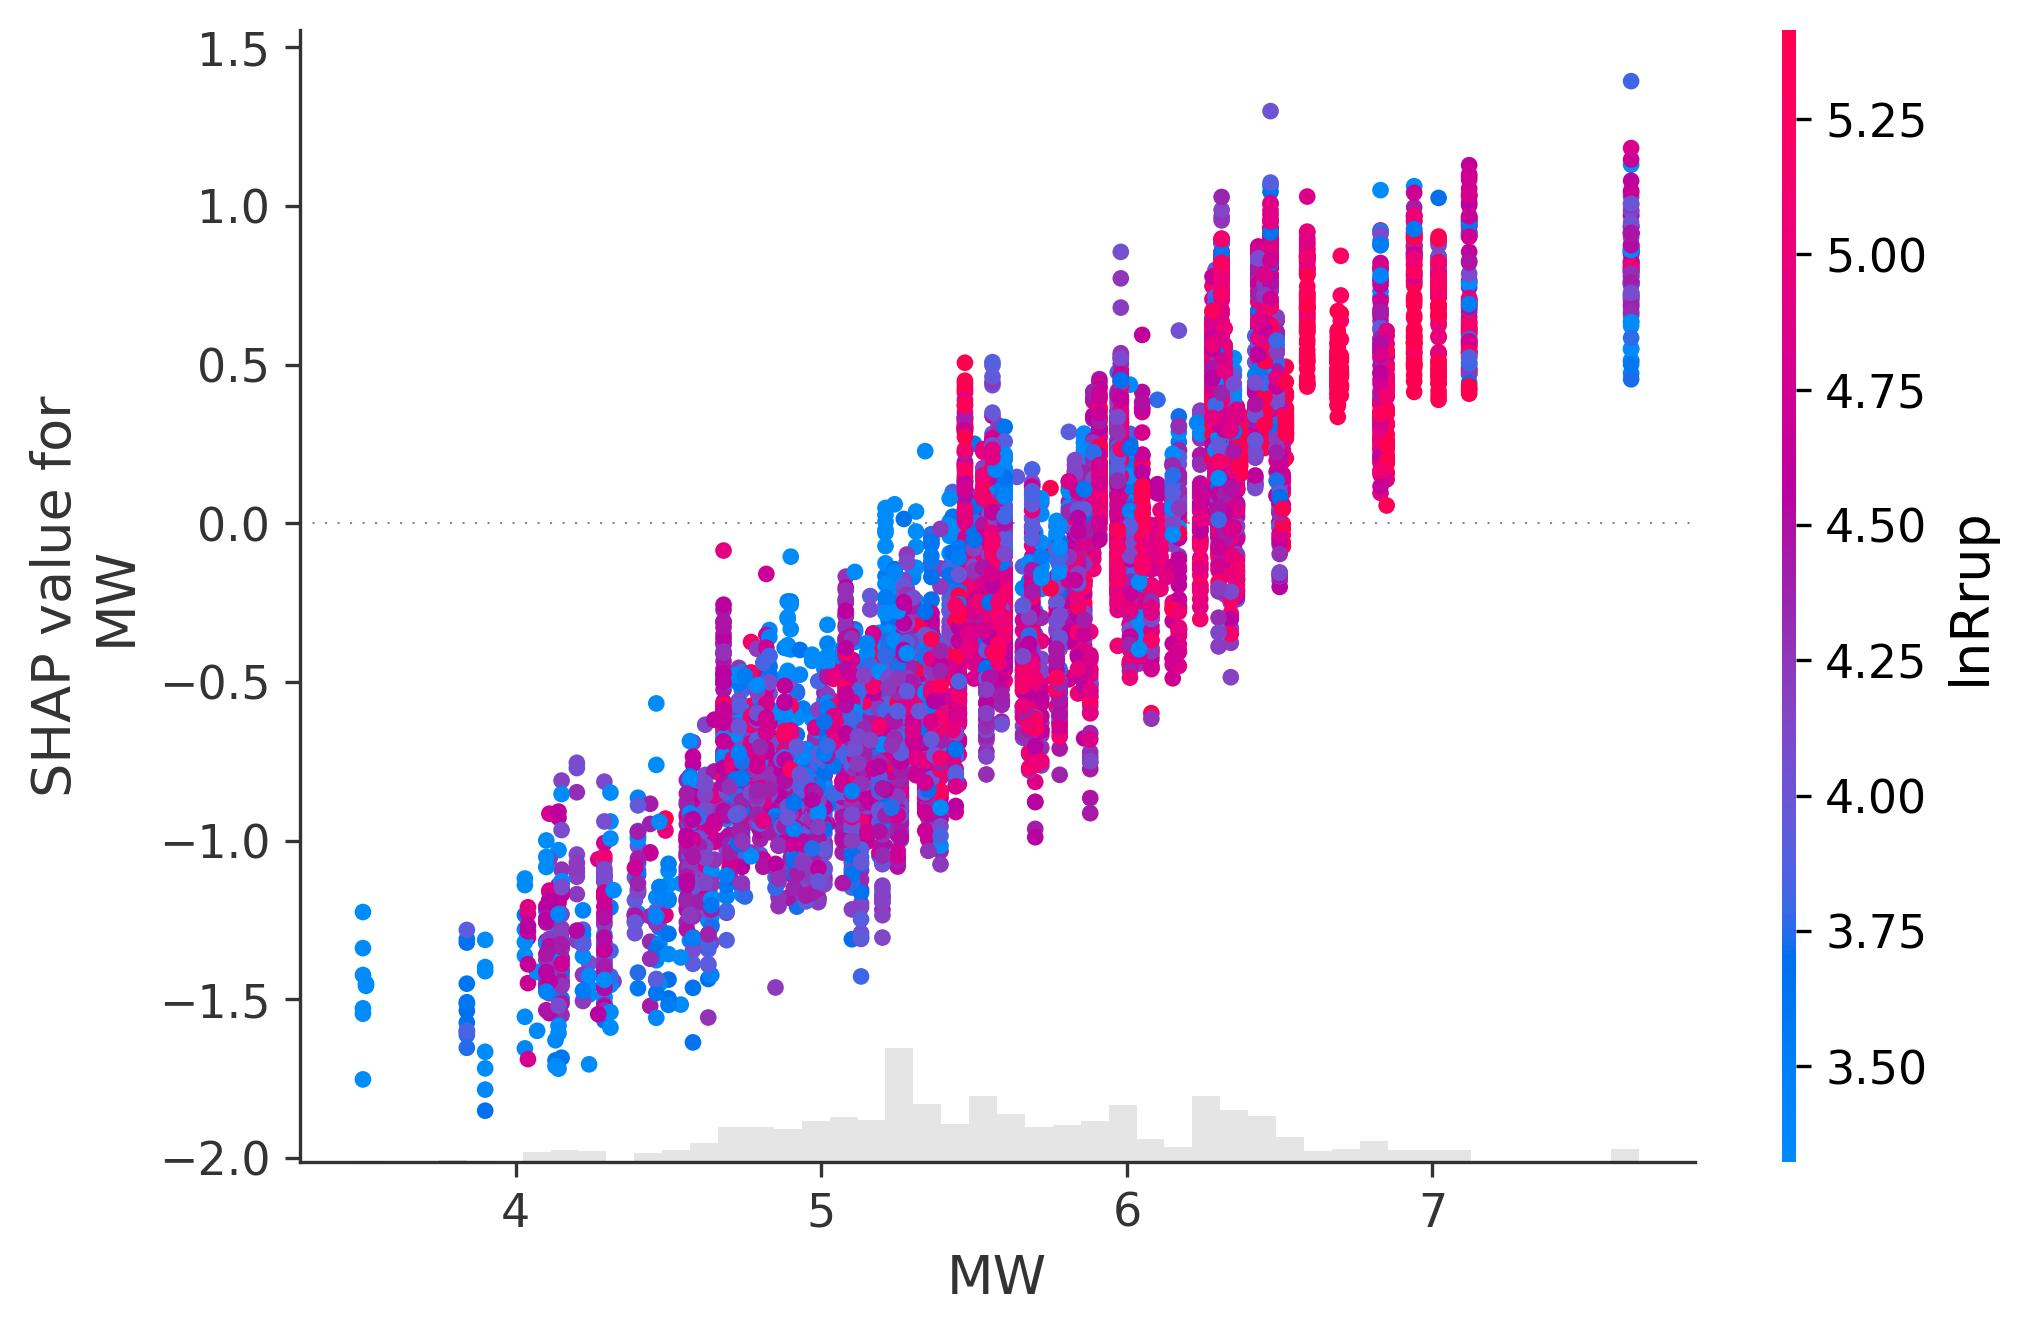
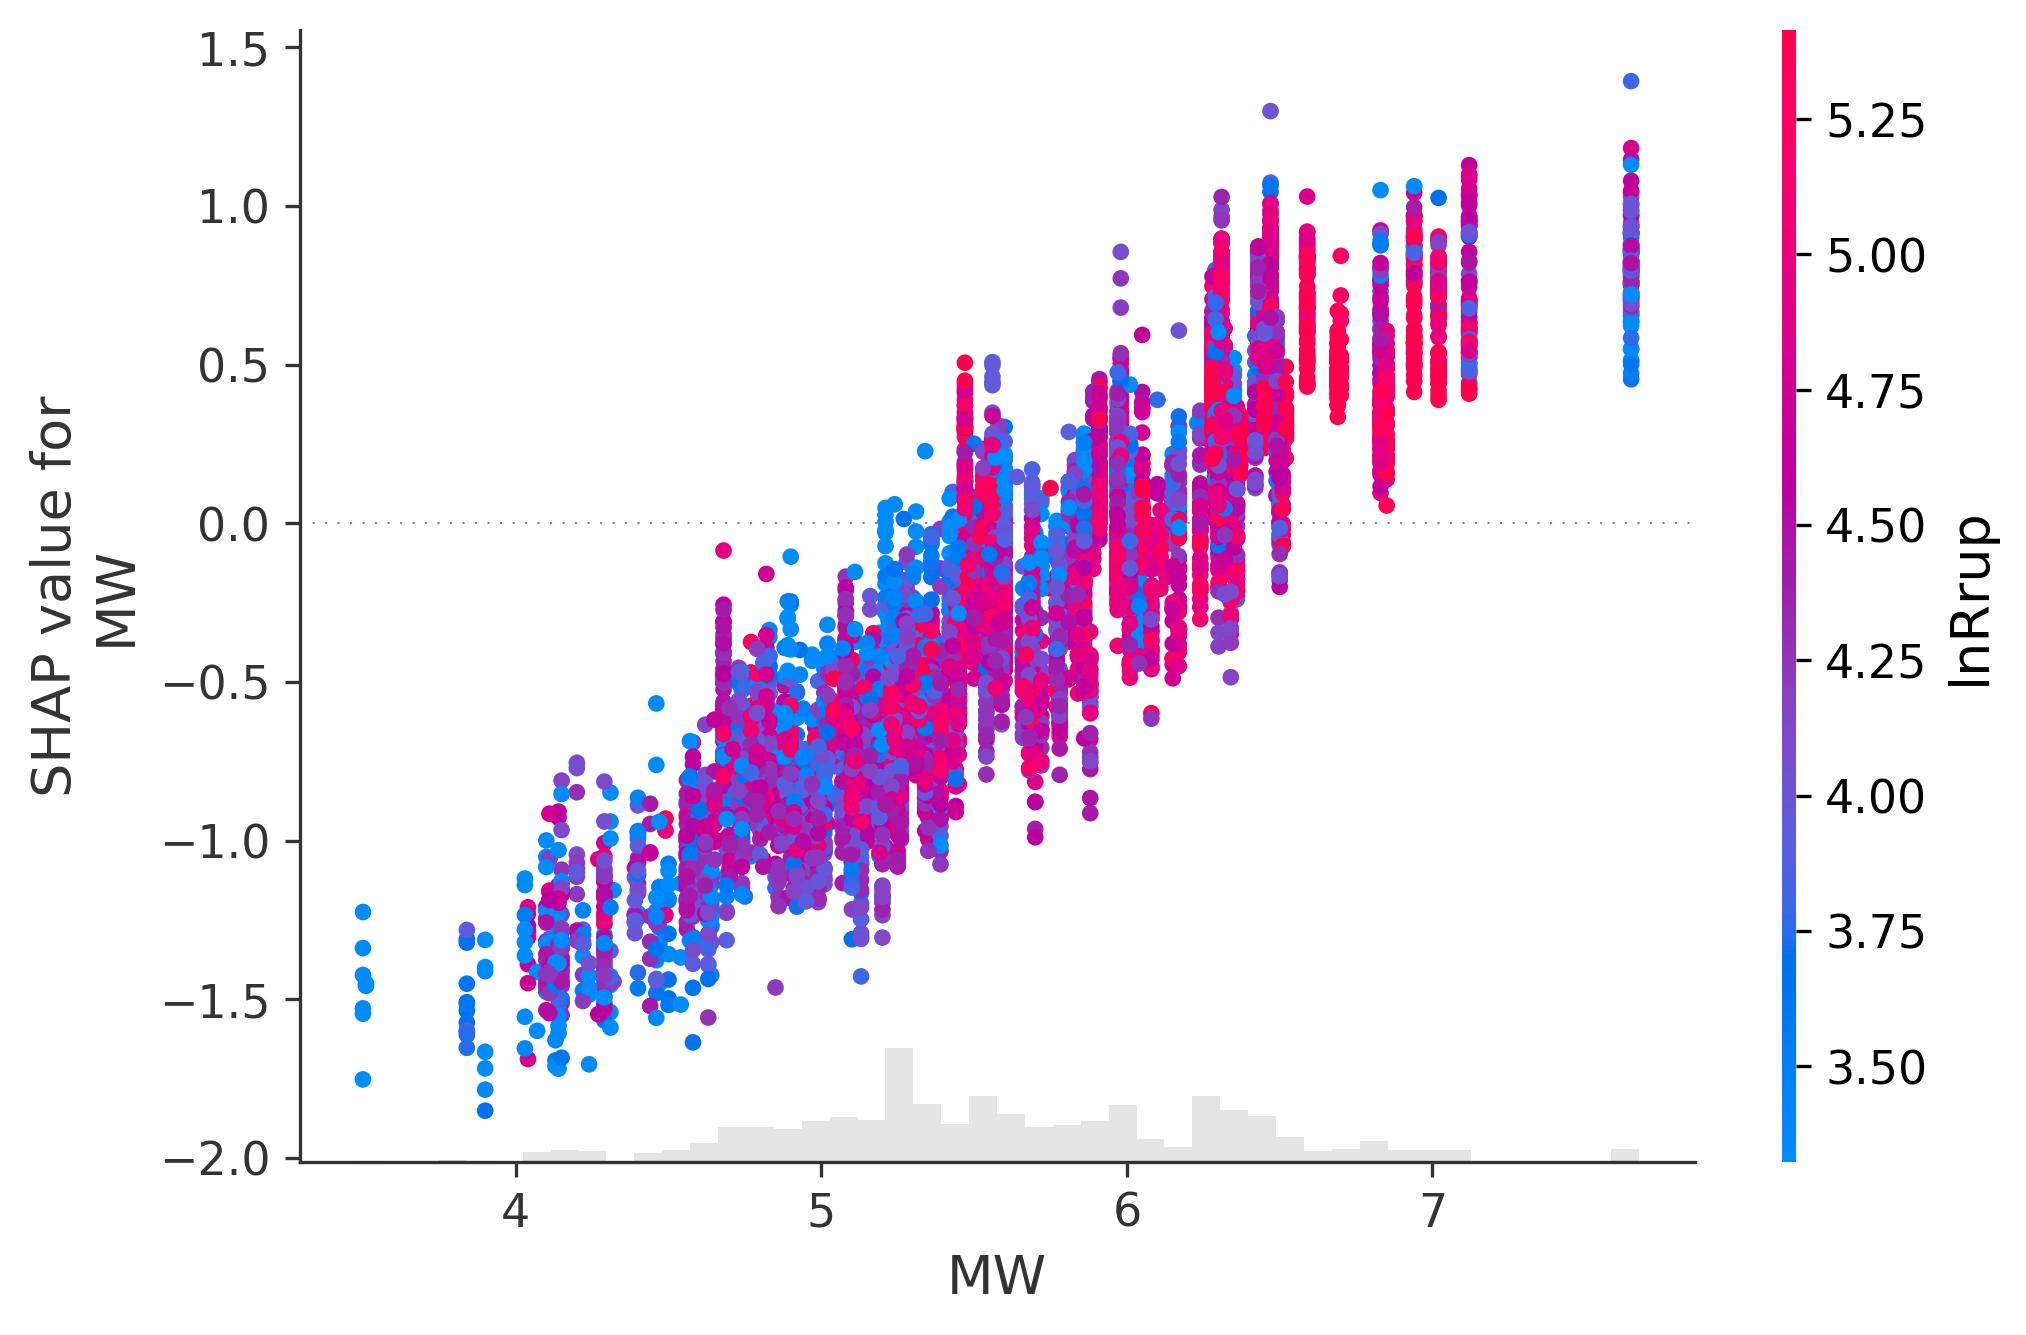
finish SHAP

Changed region(s): [[0.2488, 0.1843, 0.6841, 0.7678], [0.6841, 0.1536, 0.7463, 0.2764], [0.7774, 0.1536, 0.8085, 0.2457]]

diff --git a/machine_learning/design_pattern/plot_figure.py b/machine_learning/design_pattern/plot_figure.py
@@ -26,13 +26,11 @@ class plot_fig:
     def predicted_distribution(self, x_test, y_test, predict_value, fit_time,
                                score):
 
-        #######################################
-        #######################################
-        #######################################
-        ###### train & test distribution ######
-        #######################################
-        #######################################
-        #######################################
+        """ 
+        
+        train & test distribution
+        
+        """
 
         # 畫 Vs30 and randomForest_predict 關係圖
         plt.grid(linestyle=':')
@@ -95,11 +93,13 @@ class plot_fig:
                  predict_value: "ori_predicted",
                  ori_full_data: "ori_notsplit_data", score):
 
-        ##########################
-        ##### Total Residual #####
-        ##########################
+        """
+        
+        Total Residual 
+        
+        """
 
-        # 1. Vs30 Total Residual
+        # * 1. Vs30 Total Residual
         residual = predict_value - y_total
         residual_121 = []
         residual_199 = []
@@ -221,7 +221,7 @@ class plot_fig:
             dpi=300)
         plt.show()
 
-        # 2. Mw Toral Residual
+        # * 2. Mw Toral Residual
         residual = predict_value - y_total
         residual_3_5 = []
         residual_4_5 = []
@@ -329,7 +329,7 @@ class plot_fig:
             dpi=300)
         plt.show()
 
-        # 3. Rrup Total Residual
+        # *  3. Rrup Total Residual
         residual = predict_value - y_total
         residual_10 = []
         residual_31 = []
@@ -440,7 +440,7 @@ class plot_fig:
             dpi=300)
         plt.show()
 
-        # 4. Total Residual Number Distribution
+        # * 4. Total Residual Number Distribution
         total_num_residual = [0] * 41
         total_num_residual[10] = np.count_nonzero((residual >= -2)
                                                   & (residual < -1.8))
@@ -501,13 +501,11 @@ class plot_fig:
             dpi=300)
         plt.show()
 
-        #######################################
-        #######################################
-        #######################################
-        ##### inter intra event residual  #####
-        #######################################
-        #######################################
-        #######################################
+        """
+
+        inter intra event residual
+        
+        """
 
         # 計算inter-event by mean value(共273顆地震)
         originaldata_predicted_result_df = pd.DataFrame(predict_value,
@@ -528,7 +526,7 @@ class plot_fig:
             'MW': 'Mw'
         })
 
-        # Mw inter-event
+        # * Mw inter-event
         Mw_yticks = [-1.5, -1.0, -0.5, 0, 0.5, 1.0, 1.5]
         plt.grid(linestyle=':', color='darkgrey')
         plt.scatter(inter_event['Mw'],
@@ -565,7 +563,7 @@ class plot_fig:
         total_data_df['intra_event_residual'] = total_data_df[
             'residual'] - total_data_df['inter_event_residual']
 
-        # Rrup intra-event
+        # * Rrup intra-event
         Rrup_xticks = [0, 50, 100, 150, 200, 250, 300, 400, 500]
         net = 50
         zz = np.array([0] * net * net).reshape(net, net)  # 打net*net個網格
@@ -682,9 +680,11 @@ class plot_fig:
     def measured_predict(self, y_test: "ori_ans",
                          predict_value: "ori_predicted", score):
 
-        #./
-        # 預測PGA和實際PGA
-        # /.
+        """
+        
+        預測PGA和實際PGA
+        
+        """
         net = 50
         zz = np.array([0] * net * net).reshape(net, net)  # 打net*net個網格
         color_column = []

diff --git a/machine_learning/XGB/XGB_TSMIP.py b/machine_learning/XGB/XGB_TSMIP.py
@@ -60,24 +60,30 @@ df = pd.DataFrame(
     columns=['lnVs30', 'MW', 'lnRrup', 'fault.type', 'STA_Lon_X', 'STA_Lat_Y'])
 explainer = shap.Explainer(ML_model)
 shap_values = explainer(df)
-shap.summary_plot(shap_values, df)
+shap.summary_plot(shap_values, df, show=False)
+plt.savefig("summary_plot.jpg", bbox_inches='tight', dpi=300)
 
 # waterfall
-shap.plots.waterfall(shap_values[0],show=False) # 單筆資料解釋:第1筆資料解釋
+shap.plots.waterfall(shap_values[0], show=False)  # 單筆資料解釋:第1筆資料解釋
 plt.rcParams['figure.facecolor'] = 'white'
 plt.rcParams['axes.facecolor'] = 'white'
-plt.savefig("shap_waterfall.jpg",bbox_inches = 'tight',dpi=300)
+plt.savefig("shap_waterfall.jpg", bbox_inches='tight', dpi=300)
 # force plot
-# shap.initjs()
-# shap.force_plot(explainer.expected_value, shap_values.values[0,:], df.iloc[0,:])
+shap.initjs()
+shap.force_plot(explainer.expected_value, shap_values.values[0, :],
+                df.iloc[0, :], show=False,matplotlib=True)
+plt.savefig("force_plot.jpg", bbox_inches='tight', dpi=300)
 
 # bar plot
-shap.plots.bar(shap_values,show=False)
+fig = plt.figure()
+shap.plots.bar(shap_values, show=False)
 plt.rcParams['figure.facecolor'] = 'white'
 plt.rcParams['axes.facecolor'] = 'white'
-plt.savefig("shap_bar.jpg",bbox_inches = 'tight',dpi=300)
+plt.savefig("shap_bar.jpg", bbox_inches='tight', dpi=300)
 # scatter plot
-shap.plots.scatter(shap_values[:, "MW"], color=shap_values[:,"lnRrup"],show=False)
+shap.plots.scatter(shap_values[:, "MW"],
+                   color=shap_values[:, "lnRrup"],
+                   show=False)
 plt.rcParams['figure.facecolor'] = 'white'
 plt.rcParams['axes.facecolor'] = 'white'
-plt.savefig("shap_scatter.jpg",bbox_inches = 'tight',dpi=300)
+plt.savefig("shap_scatter.jpg", bbox_inches='tight', dpi=300)
